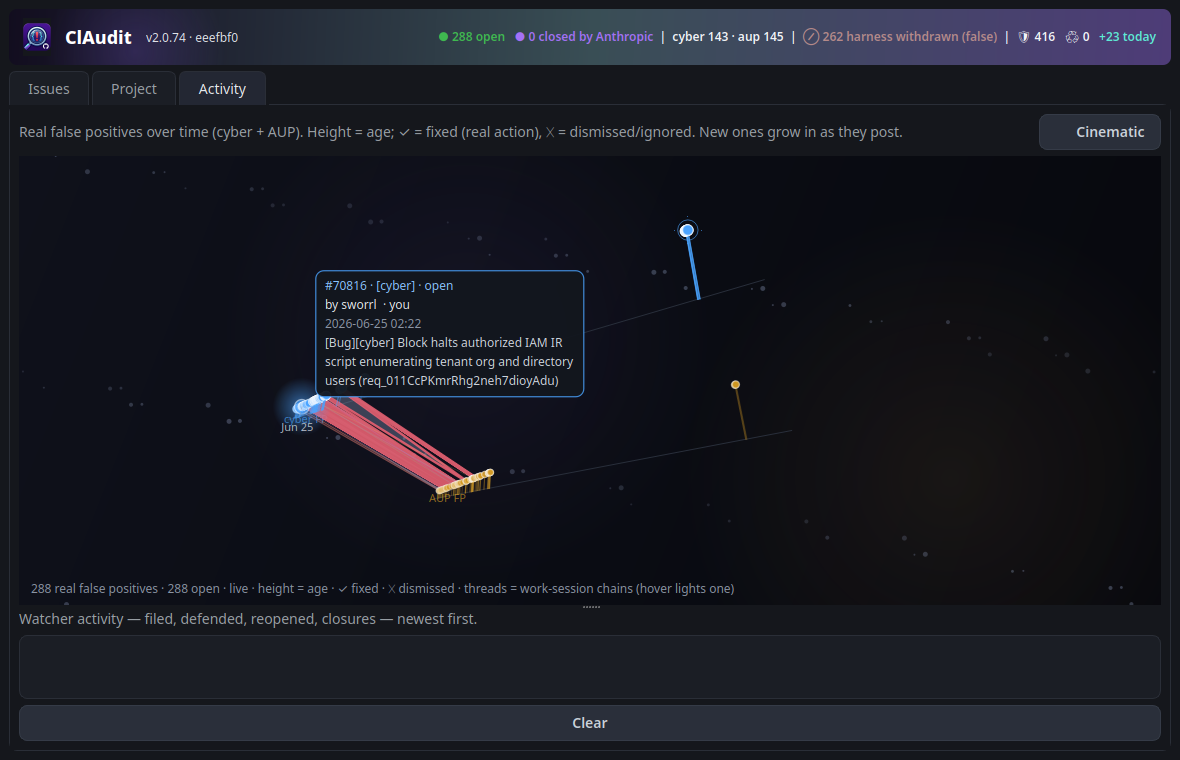
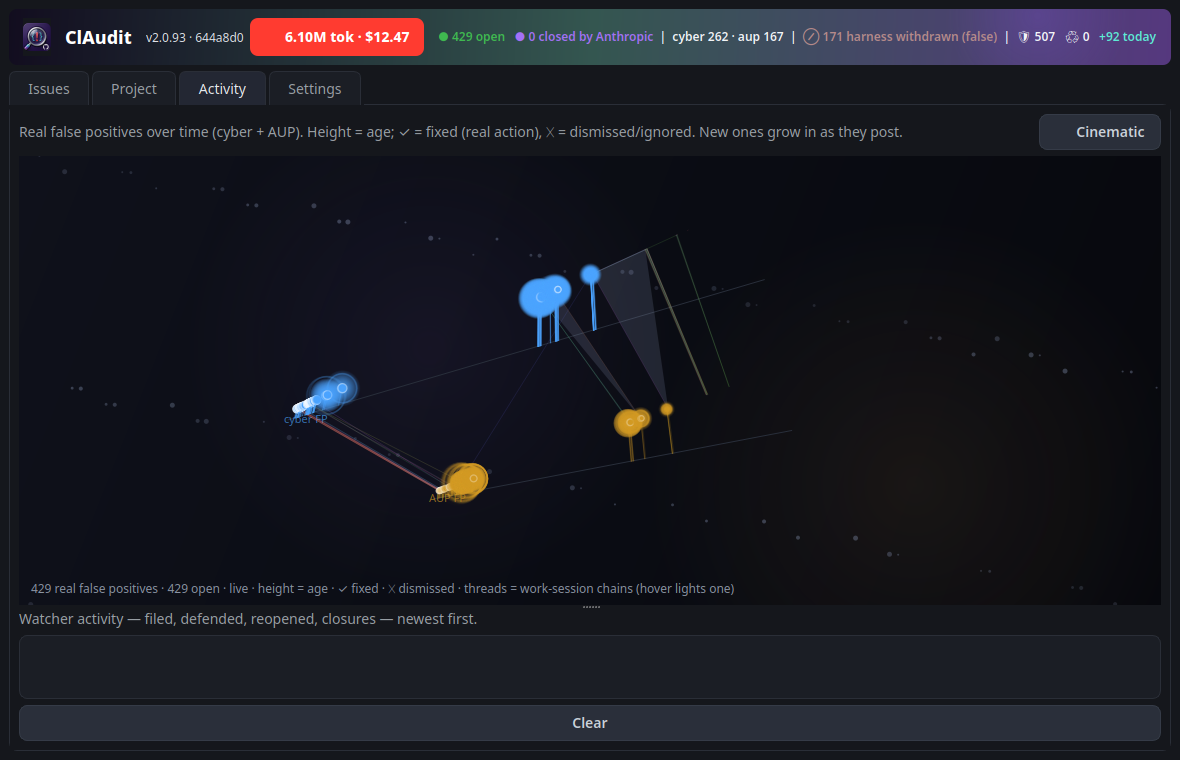
docs+ui: document token meter, refresh all screenshots, fix Settings && titles
- README: token-meter docs under burn-tokens mode; Settings-tab screenshot
  + blurb; note the 🔥 meter in the Issues caption; version badge 2.0.94;
  correct stale dwell timing (5 min / 300s) and config-file table (all
  live-toggleable keys + tokens.json).
- Re-shot Issues/Project/Activity with the burn meter lit + added Settings.
- Fix: QGroupBox titles ate '&' as a mnemonic; escape to '&&' so
  'Filing & detection' / 'LLM & PII' render correctly.

diff --git a/claudit_gui.py b/claudit_gui.py
@@ -2148,7 +2148,7 @@ class Main(QtWidgets.QMainWindow):
                 g.addLayout(row)
             v.addWidget(box)
 
-        grp("Filing & detection", [
+        grp("Filing && detection", [
             ("auto", "Auto-post new blocks", "File each new block the instant it's seen.", bool(w and w.auto)),
             ("dwell_autofile", "Dwell auto-file", "Hold new blocks for the dwell, LLM-judge + compose, then "
              "file one linked bespoke issue per Request ID. No manual push.", bool(w and w.dwell)),
@@ -2167,7 +2167,7 @@ class Main(QtWidgets.QMainWindow):
             ("watchdog", "Watchdog (keep-alive)", "Run a detached supervisor that relaunches ClAudit "
              "automatically if it ever crashes. A normal Quit still quits.",
              bool(cs.load_config().get("watchdog")))])
-        grp("LLM & PII", [
+        grp("LLM && PII", [
             ("llm_scrub", "Claude PII scrubbing", "Use the claude CLI to catch names/hosts the regex can't, "
              "before posting.", claudit.LLM_SCRUB),
             ("burn_tokens", "Burn-tokens bespoke reports", "Have Claude write each report (best PII defense + "

diff --git a/claudit_scan.py b/claudit_scan.py
@@ -51,7 +51,7 @@ STATE_FILE = os.path.join(STATE_DIR, "filed.json")
 ERROR_LOG = os.path.join(STATE_DIR, "error-log.jsonl")
 LOCK_FILE = os.path.join(STATE_DIR, "watcher.lock")
 ISSUES_DB = os.path.join(STATE_DIR, "issues.jsonl")   # local record of every filed issue
-__version__ = "2.0.93"
+__version__ = "2.0.94"
 DEFAULT_REPO = "anthropics/claude-code"
 REPORT_HARNESS = False   # harness (auto-mode-classifier) denials are LOG-ONLY by default.
                          # They are local permission decisions, not server-side API false positives,

diff --git a/README.md b/README.md
@@ -8,7 +8,7 @@
 
 [![License: GPL v3](https://img.shields.io/badge/License-GPLv3-blue.svg)](LICENSE)
 [![CI](https://github.com/sworrl/ClAudit/actions/workflows/ci.yml/badge.svg)](https://github.com/sworrl/ClAudit/actions/workflows/ci.yml)
-![Version](https://img.shields.io/badge/version-2.0.88-brightgreen)
+![Version](https://img.shields.io/badge/version-2.0.94-brightgreen)
 ![Python](https://img.shields.io/badge/python-3.9%2B-blue)
 ![Platforms](https://img.shields.io/badge/platforms-Linux%20%7C%20macOS%20%7C%20Windows-lightgrey)
 [![Open false-positive reports](https://img.shields.io/endpoint?url=https://sworrl.github.io/ClAudit/counter.json)](https://github.com/anthropics/claude-code/issues?q=is%3Aissue+is%3Aopen+%22Filed+automatically+by+ClAudit%22)
@@ -75,7 +75,7 @@ Community vote — does Anthropic actually fix the over-blocking, or does Claude
 
 <img src="docs/screenshot.png" alt="ClAudit Issues tab — every false-positive issue, newest first, yours highlighted" width="780">
 
-<em>Issues tab: every cyber/AUP false-positive report across anthropics/claude-code and sworrl/ClAudit, yours highlighted, filterable by scope, state, kind, and defended status. The left gutter is a git-graph of the cross-linked chains: reports from the same work session share a coloured lane, so you can see at a glance which issues belong together. Items the dwell auto-filer is holding show as ⏳ DWELL rows with a countdown.</em>
+<em>Issues tab: every cyber/AUP false-positive report across anthropics/claude-code and sworrl/ClAudit, yours highlighted, filterable by scope, state, kind, and defended status. The left gutter is a git-graph of the cross-linked chains: reports from the same work session share a coloured lane, so you can see at a glance which issues belong together. Items the dwell auto-filer is holding show as ⏳ DWELL rows with a countdown. The header carries the 🔥 lifetime token meter (see <a href="#burn-tokens-mode">burn-tokens mode</a>) — it pulses red⇄orange while burn mode is on.</em>
 
 <br><br>
 
@@ -88,6 +88,12 @@ Community vote — does Anthropic actually fix the over-blocking, or does Claude
 <img src="docs/screenshot-activity.png" alt="ClAudit Activity tab — pseudo-3D chrono-line of every filed issue, one depth lane per kind, your issues ringed" width="780">
 
 <em>Activity tab: a pseudo-3D chrono-line of the real cyber/AUP false positives (the auto-mode-classifier reports are excluded). Two lanes; a stem rises to each issue with height set by age, so the timeline reads as an ascending ridge. Closure shows state: open stands at its age, a real-action close (COMPLETED) turns green and lifts above the line with a ✓, and a dismissed/ignored close greys out and sinks to the floor with a ✕. New issues grow in place with a ripple as they post; your own are ringed; the newest carries a reticle. An abstract drifting backdrop sits behind it. Drag to rotate (it eases back to a readable angle when you let go), wheel to zoom, and the Cinematic button flies the camera along each lane in turn. Pure QPainter, no OpenGL, and zero repaints when idle.</em>
+
+<br><br>
+
+<img src="docs/screenshot-settings.png" alt="ClAudit Settings tab — every setting as a live toggle, applied instantly with no save button" width="780">
+
+<em>Settings tab: every configurable knob as a live toggle — filing &amp; detection, defense, reliability (the crash-recovery <strong>watchdog</strong>), LLM &amp; PII, and timing sliders. Each control applies the moment you flip it (no save button) and persists across restarts, staying in sync with the tray menu. The header's 🔥 token meter glows its alarming red⇄orange because burn-tokens mode is on here.</em>
 
 </div>
 
@@ -323,11 +329,12 @@ title.
   are visible at a glance (the same colours used on the 3D chart). Each Request ID is its own bespoke
   issue; the lane shows which ones belong together.
 - **Dwell auto-file (opt-in).** Instead of filing immediately or waiting for a manual push, new
-  cyber/AUP blocks are held for a dwell (default 15 min) so repeats accrue as their own incidents,
+  cyber/AUP blocks are held for a dwell (default 5 min) so repeats accrue as their own incidents,
   then the LLM gate judges each is a genuine false positive, burn-tokens composes it, and it files as
   one **bespoke issue per Request ID**, cross-linked to its siblings from the same session. Held items
-  show as **⏳ DWELL** rows with a "files in ~N min" countdown and their chain. Toggle in the tray;
-  off by default (the FOSS default stays review-before-send).
+  show as **⏳ DWELL** rows with a "files in ~N min" countdown and their chain. Toggle it (and the
+  dwell length) live in the **Settings tab** or the tray; off by default (the FOSS default stays
+  review-before-send).
 - **Activity tab:** a **pseudo-3D chrono-line** of the **real cyber/AUP false positives** (the
   auto-mode-classifier reports are left out). A stem rises to each issue with **height set by age**,
   so the line reads as an ascending ridge. **Closure is encoded**: open stands at its age, a
@@ -442,6 +449,13 @@ strongest PII protection** — the report is composed generically instead of ech
 It's slower and uses tokens (hence the name); it's the recommended mode for anyone who cares about
 either report quality or PII. Set it once in your config and forget it.
 
+**Token meter.** Every `claude` call ClAudit makes — compose, scrub, gate, dedup verdict — is run in
+JSON mode and its usage tallied into a lifetime counter (`~/.claude/claudit/tokens.json`), accumulated
+across every session. The window header shows a **🔥 `<total>` tok · `$<cost>`** meter; hover for the
+input / output / cache / call breakdown. While burn-tokens mode is **on** it pulses in an alarming
+red⇄orange — so you always know when, and how hard, ClAudit is spending. With burn-tokens off it stays
+muted grey but keeps counting.
+
 ## Dedup guard
 
 GitHub's duplicate bot flags similar issues and auto-closes them. `--dedup-guard` has the `claude` CLI
@@ -473,15 +487,16 @@ State and config live in `~/.claude/claudit/`:
 
 | File | Purpose |
 |------|---------|
-| `config.json` | Saved prefs: `llm_scrub`, `burn_tokens`, opt-in `gate`, `dwell_autofile`, `dwell_seconds` |
+| `config.json` | Saved prefs (all live-toggleable in the Settings tab): `llm_scrub`, `burn_tokens`, `gate`, `dwell_autofile`, `dwell_seconds`, `auto`, `backfill`, `defend`, `reopen`, `amplify`, `report_harness`, `interval`, `watchdog` |
+| `tokens.json` | Lifetime token meter: cumulative input/output/cache tokens, call count, and USD cost across every session |
 | `scrub.txt` | Your local PII denylist (never committed) |
 | `filed.json` | Dedup state: filed/baselined findings, dwell holds, and the per-session chains |
 | `issues.jsonl` | Local record of every issue filed (with leadup, for your reference) |
 | `error-log.jsonl` | Every classified block, including the logged-only kinds |
 
-`dwell_autofile: true` turns on the dwell auto-filer (hold each new cyber/AUP block ~15 min, LLM-judge
-it, then file one cross-linked bespoke issue per Request ID); `dwell_seconds` overrides the 900s dwell.
-Both are off by default and also toggle from the tray.
+`dwell_autofile: true` turns on the dwell auto-filer (hold each new cyber/AUP block ~5 min, LLM-judge
+it, then file one cross-linked bespoke issue per Request ID); `dwell_seconds` overrides the 300s dwell.
+Both are off by default and toggle live from the Settings tab or the tray.
 
 ## Auto-update & self-restart
 